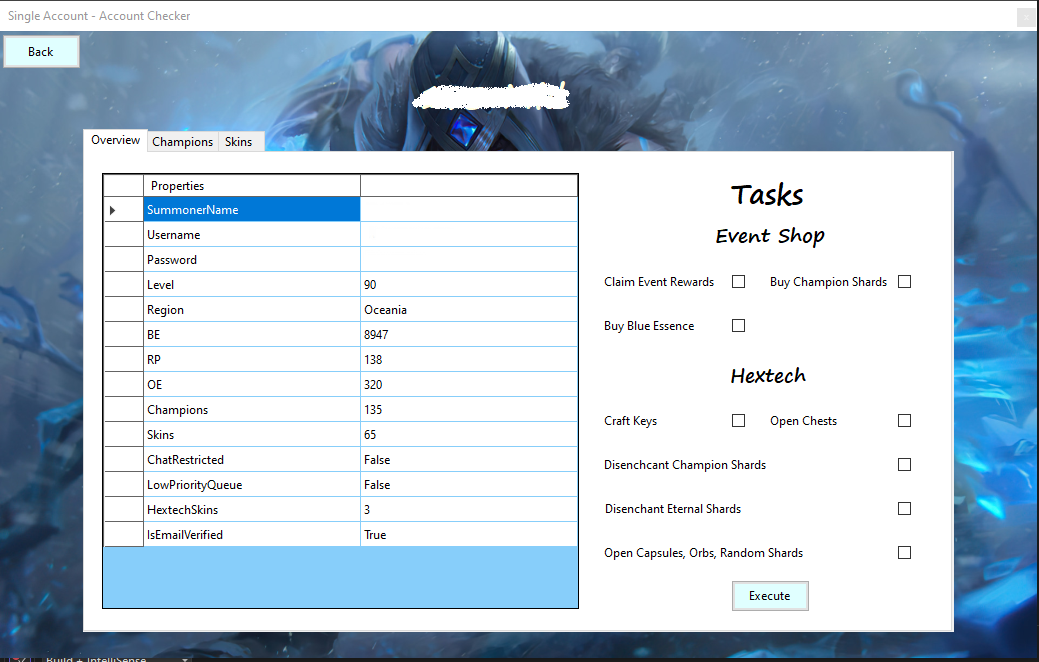
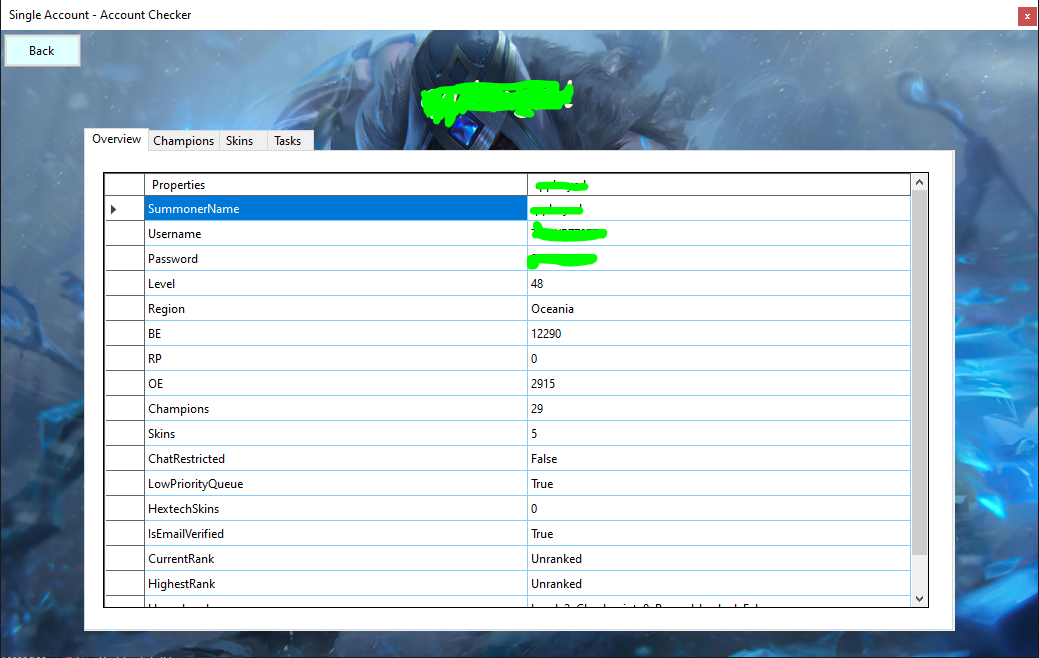
readme update

diff --git a/README.md b/README.md
@@ -15,6 +15,7 @@ This program is a League of Legends account checker supporting multi threading w
 - Exports all accounts information to folder  
 - Comprehensive details on each successfully checked account, including purchase dates, owned champions, owned skins, and more.  
 - Automatically execute Hextech Loot related tasks such as disenchanting, claiming etc.
+- Automatic removal of all friends and friend requests.
 - Re-queue system for failed accounts  
 
 ## How to use
@@ -63,13 +64,13 @@ Must be set up before being granted access to the main view. It includes the "Ri
 
 ### Accounts
 
+*Note: To display an account, double click on summoner name cell*
+
 Lists all the accounts in the Exports folder in a grid view that displays general information about each account. Clicking on a specific row will open a view with more details about the account.
 
 ![main](images/accounts.PNG)
 
 ### Single Account
-
-*Note: To display an account, double click on summoner name cell*
 
 Lists the overview information of the specific account, including the purchase history, owned champions, and skins. This view also displays specific details about each owned champion and skin.
 
@@ -78,6 +79,8 @@ Lists the overview information of the specific account, including the purchase h
 ![main](images/single_account_champions.PNG)
 
 ![main](images/single_account_skins.PNG)
+
+![main](images/single_account_tasks.PNG)
 
 ## Inspiration
 
